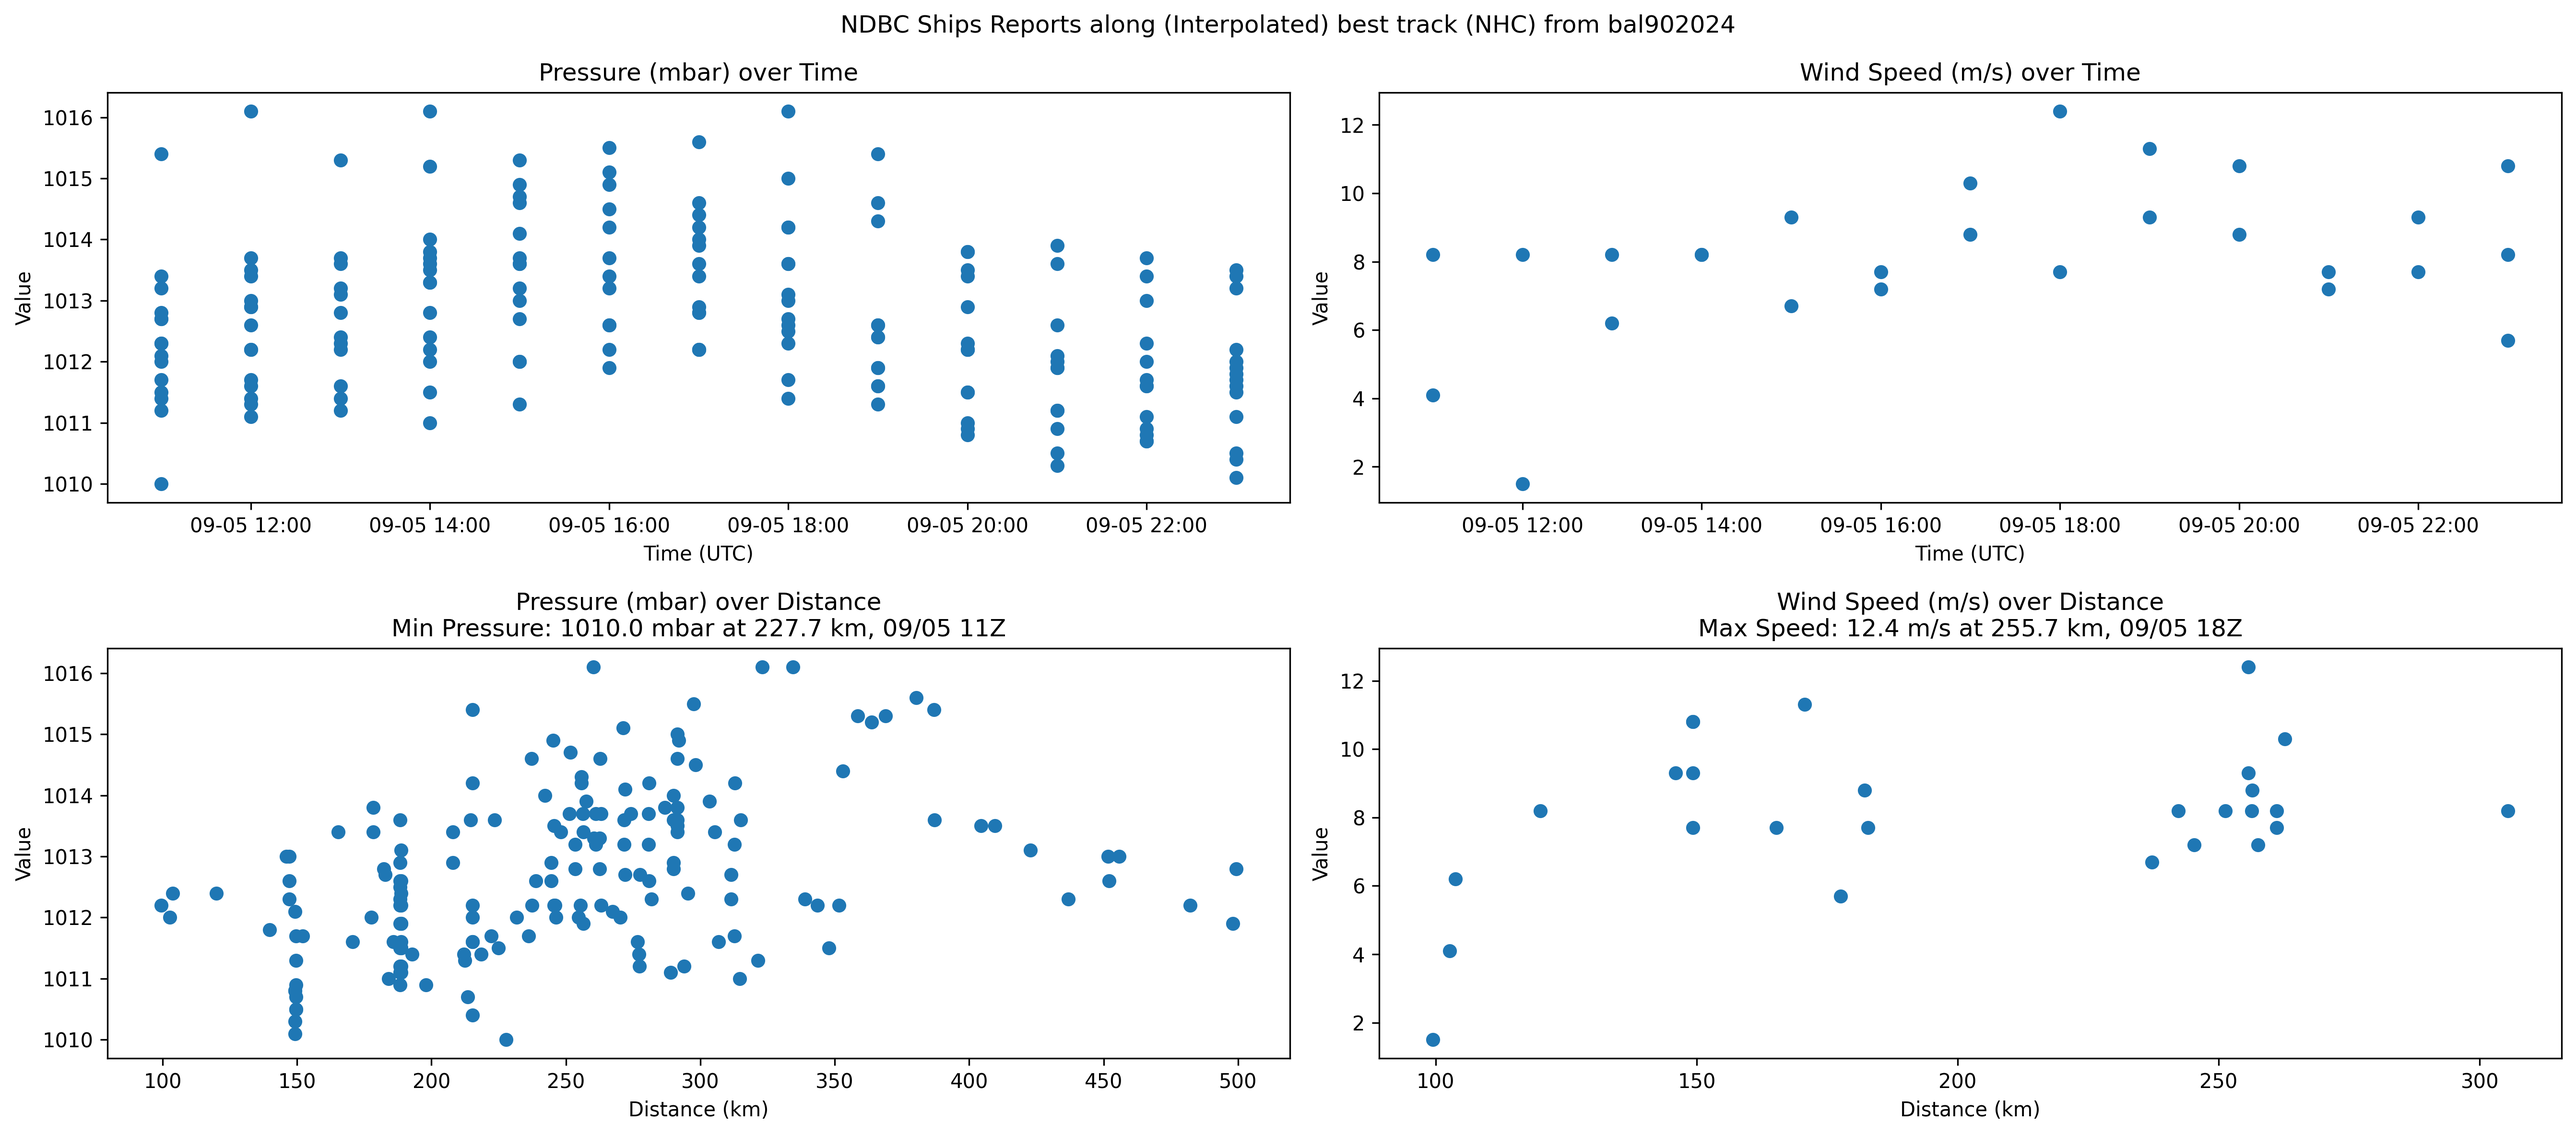
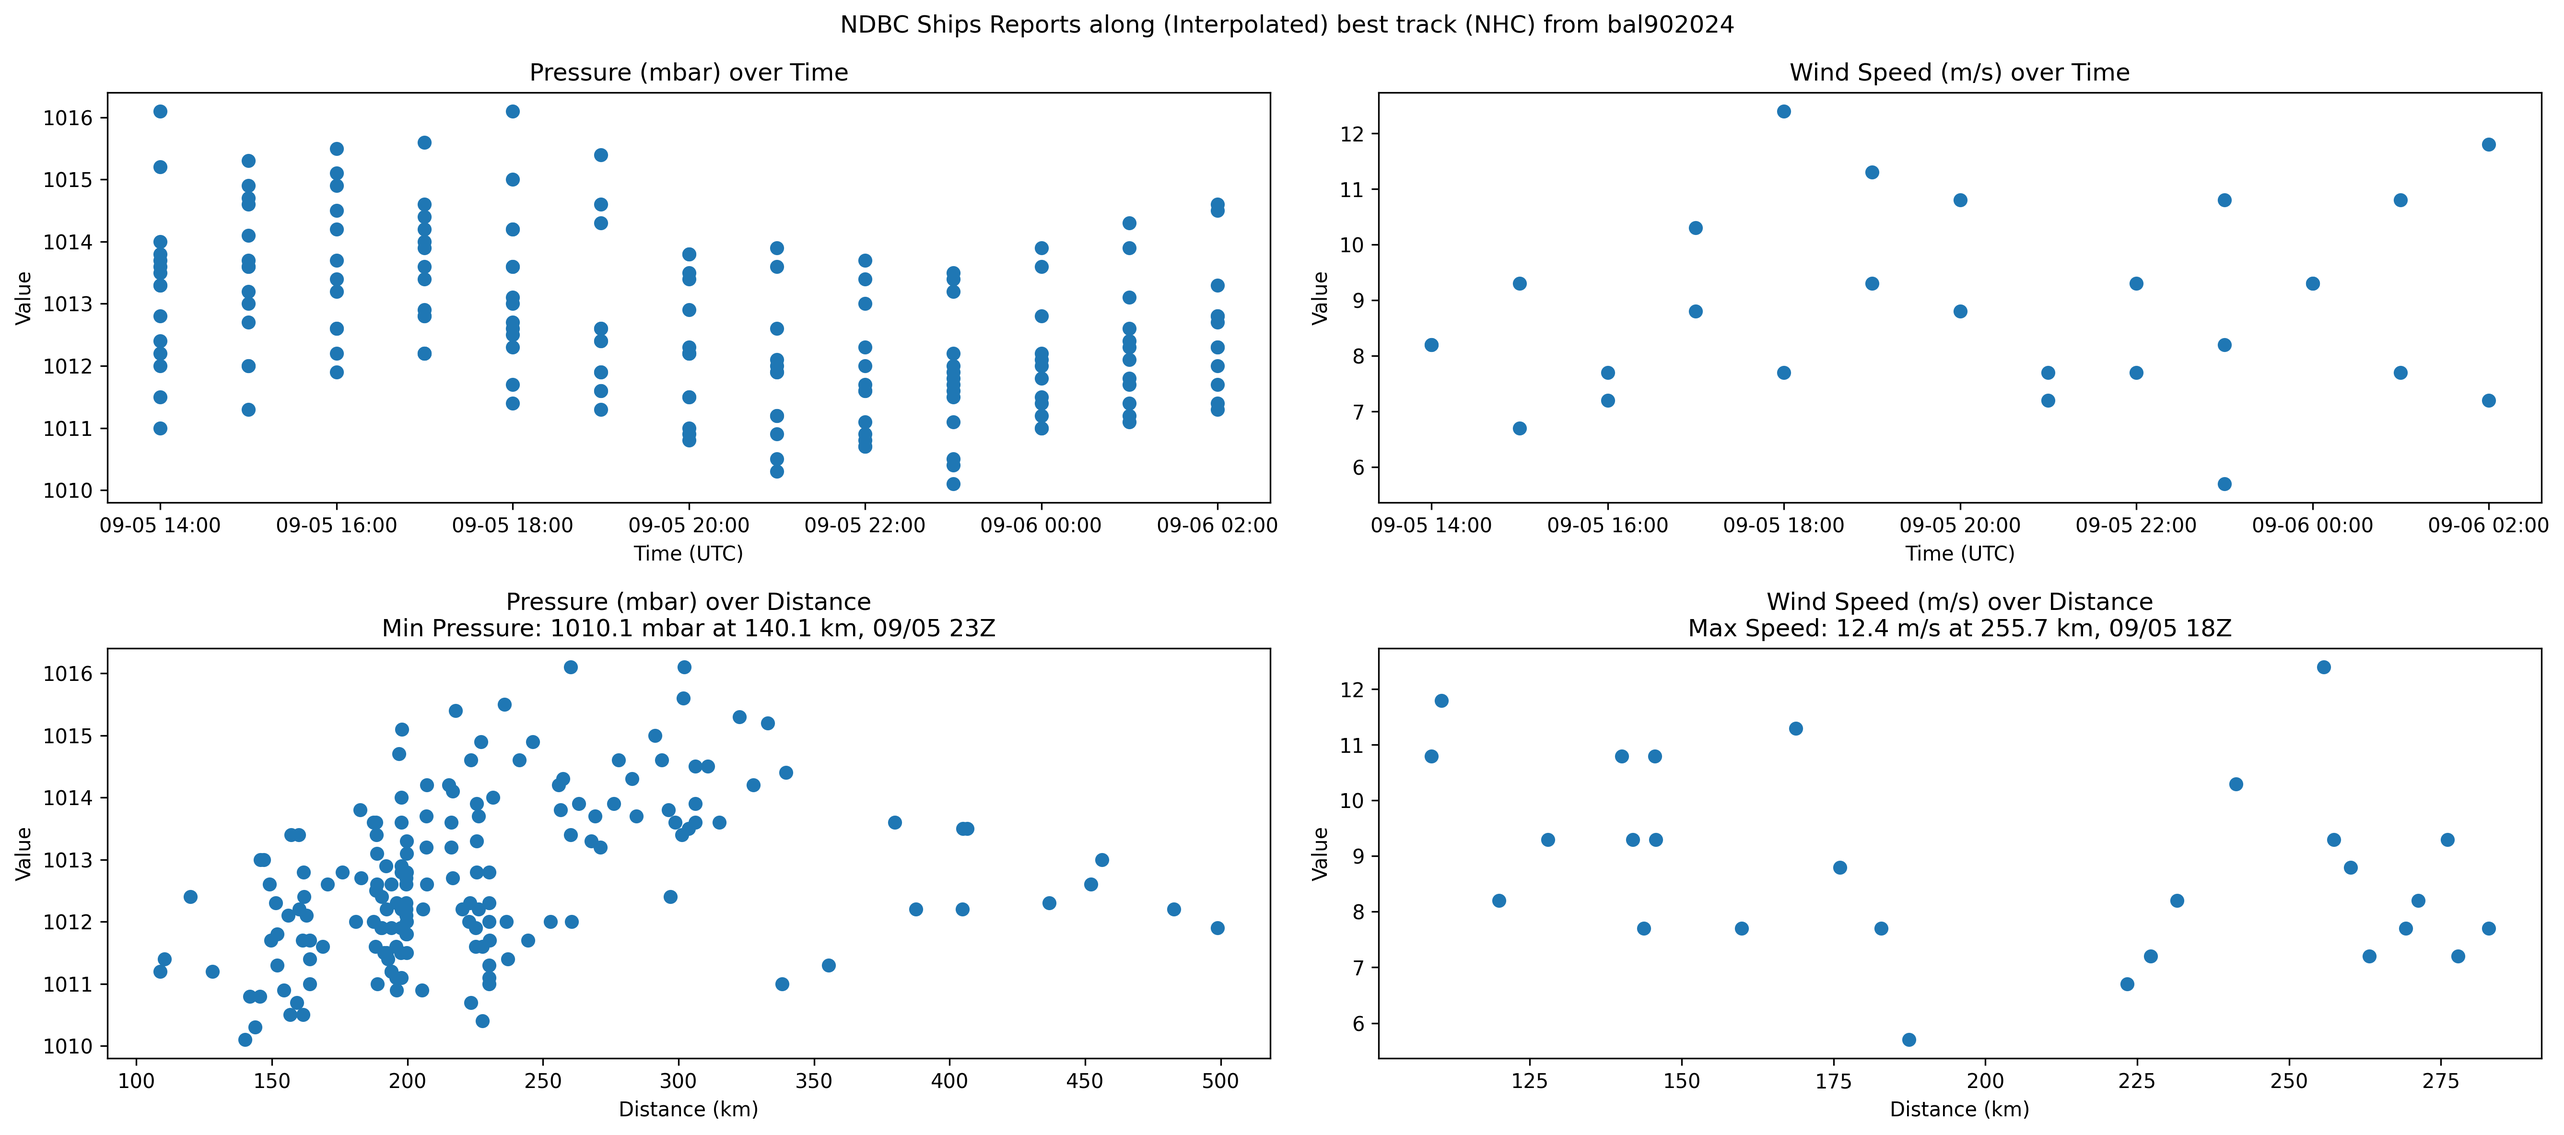
Fix for geodesic (was not using correct azimuth for interpolation) No longer use geopy

diff --git a/ships.py b/ships.py
@@ -10,6 +10,9 @@ ships_url = 'https://www.ndbc.noaa.gov/ship_obs.php'
 # Last 12 hours
 params = {'uom': 'M', 'time': '12'}
 
+# example to find times nearest buoy
+buoy_coord = [34.703, -72.242]
+
 from datetime import datetime, timedelta
 import sys
 
@@ -37,13 +40,10 @@ import pandas as pd
 
 #from geopy.interpolate import interpolate
 # geopy 2.0
-from geopy.distance import geodesic
+from geographiclib.geodesic import Geodesic
 import os
 
 import requests
-
-# Define the interpolation function
-from geopy.distance import geodesic
 
 def datetime_format(dt):
     return dt.strftime("%m/%d %HZ")
@@ -54,12 +54,10 @@ def interpolate_coordinates(row, next_row, fraction):
     lat2, lon2 = next_row['lat'], next_row['lon']
     point1 = (lat1, lon1)
     point2 = (lat2, lon2)
-    g = geodesic(point1, point2)
-    distance = g.km
-    geod = g.geod
-    azimuth = geod.AZIMUTH
+    g = Geodesic.WGS84.Inverse(lat1, lon1, lat2, lon2)
+    distance = g['s12']
     interpolated_distance = distance * fraction
-    interpolated_line = geod.Direct(lon1=lon1, lat1=lat1, azi1=azimuth, s12=interpolated_distance)
+    interpolated_line = Geodesic.WGS84.Direct(lon1=lon1, lat1=lat1, azi1=g['azi1'], s12=interpolated_distance)
     lat2 = interpolated_line['lat2']
     lon2 = interpolated_line['lon2']
     return pd.Series({'lat': lat2, 'lon': lon2})
@@ -102,7 +100,6 @@ for period in obs_periods:
         lon = float(cols[3]) if cols[3] != 'NaN' else np.nan
         pres = float(cols[9]) if cols[9] != 'NaN' else np.nan
         wspd = float(cols[5]) if cols[5] != 'NaN' else np.nan
-
 
         # invalid
         if wspd > 200:
@@ -153,11 +150,12 @@ for line in lines:
         lon = -lon
     data.append([valid_time, lon, lat])
 
-
 df = pd.DataFrame(data, columns=['valid_time', 'lon', 'lat'])
 
 # Sort the DataFrame by valid_time
 df.sort_values(by='valid_time', inplace=True)
+
+df.reset_index(inplace=True)
 
 # Interpolate the coordinates at each hour
 for i in range(len(df) - 1):
@@ -171,6 +169,27 @@ for i in range(len(df) - 1):
         interpolated_row['valid_time'] = new_datetime
         df = pd.concat([df, pd.DataFrame([interpolated_row])], ignore_index=True)
 
+# Sort the DataFrame by valid_time (needed again after interpolation)
+df.sort_values(by='valid_time', inplace=True)
+
+df.reset_index(inplace=True)
+
+buoy_dists = []
+# buoy example
+for i, row in df.iterrows():
+    g = Geodesic.WGS84.Inverse(buoy_coord[0], buoy_coord[1], row.lat, row.lon)
+    buoy_dists.append((np.round(g['s12'] / 1000, 1), np.round(g['azi1'],1), row['valid_time']))
+
+buoy_dists.sort()
+buoy_df = pd.DataFrame(buoy_dists, columns=['distance_km', 'azimuth', 'valid_time'])
+
+print(f"Closest storm approaches to buoy at {buoy_coord[0], buoy_coord[1]}:")
+print(buoy_df)
+
+print("")
+print('Interpolated best track:')
+print(df)
+
 distances = []
 for i in range(len(data_ships)):
     # Find the row for the valid_time that is closest to the datetime in the data
@@ -178,12 +197,10 @@ for i in range(len(data_ships)):
     center_lat = closest_row['lat'].values[0]
     center_lon = closest_row['lon'].values[0]
     # Calculate the distance based on the center
-    point1 = (center_lat, center_lon)
-    point2 = (data_ships[i, 1], data_ships[i, 2])
-    g = geodesic(point1, point2)
-    distance = g.km
+    g = Geodesic.WGS84.Inverse(center_lat, center_lon, data_ships[i, 1], data_ships[i, 2])
+    distance_km = g['s12'] / 1000
     # Use the distance in your calculations...
-    distances.append(distance)
+    distances.append(distance_km)
 
 distances = np.array(distances)
 
@@ -203,6 +220,8 @@ data_ships_with_distances = np.hstack((data_ships, distances.reshape(-1, 1)))
 # Convert the resulting array to a pandas DataFrame
 df_ships = pd.DataFrame(data_ships_with_distances, columns=['datetime', 'lon', 'lat', 'pressure', 'speed', 'distance'])
 
+print("")
+print("Ships observations")
 print(df_ships)
 
 fig = plt.figure(figsize=(18, 8))
